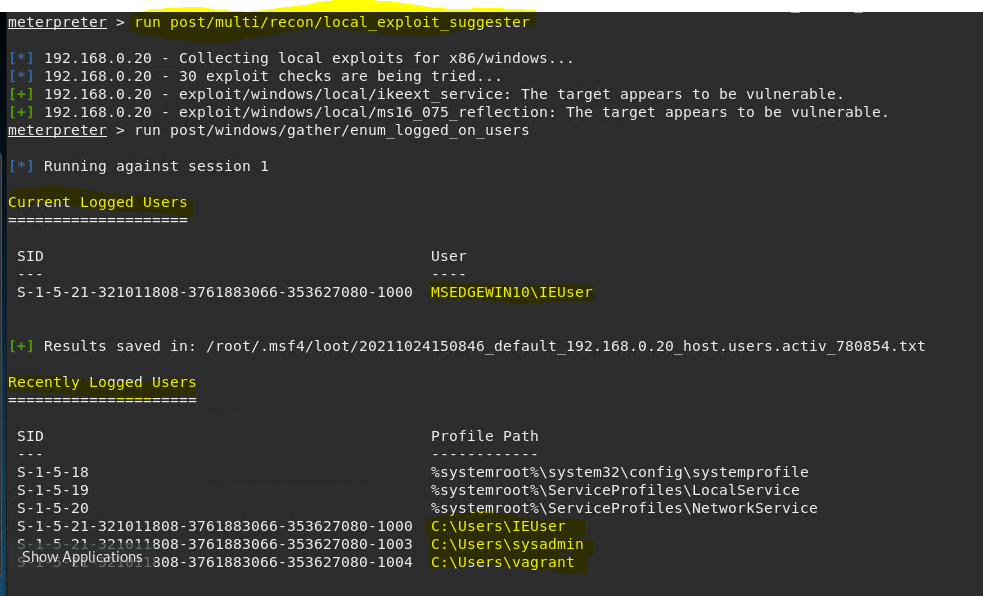
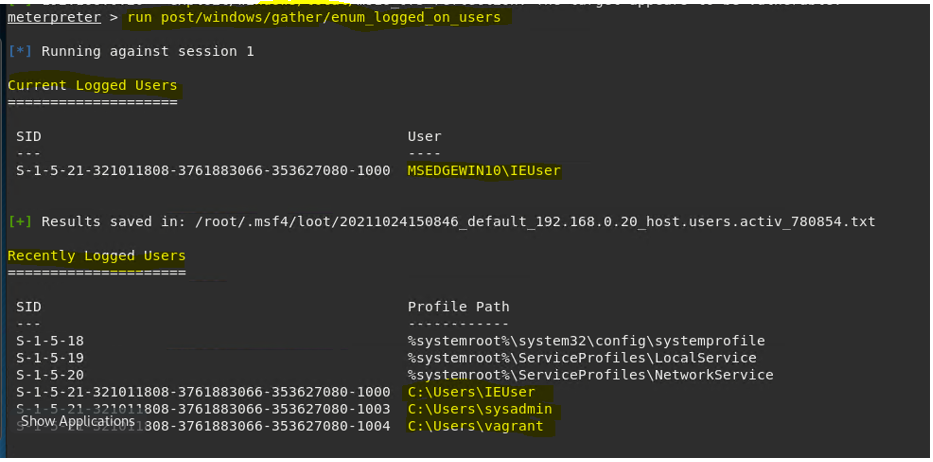
update

diff --git a/3. Weekly Homework/17. Week17 Penetration-Testing-2/IMAGE/meta10.md b/3. Weekly Homework/17. Week17 Penetration-Testing-2/IMAGE/meta10.md
@@ -1,6 +1,6 @@
 ### Documenting Logged On USERS:
 
-* using command: run post/multi/recon/local_exploit_suggester an attacker can view Logged On USER'S as well as Recently Logged ON USER'S
+* using command: **run post/windows/gather/enum_logged_on_users**  an attacker can view Logged On USER'S as well as Recently Logged ON USER'S
 * this gives the attacker a tactical advantage to perform brute-force attacks and gain access to a USER's Username and Password
 * this can be very easy for attackers if the server is vulnerable to XXS or injection vulnerabilities
 
